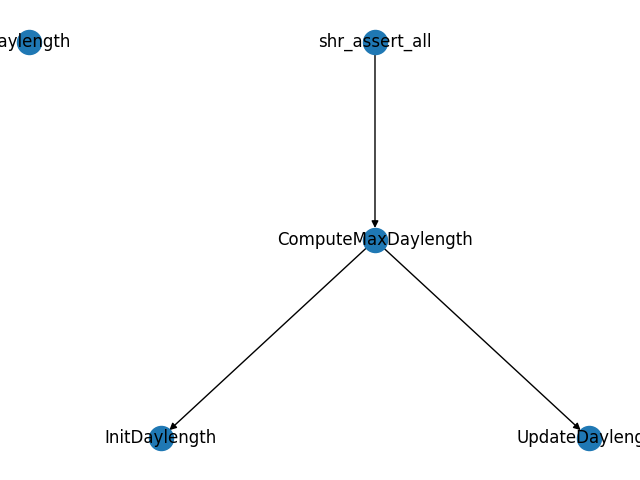
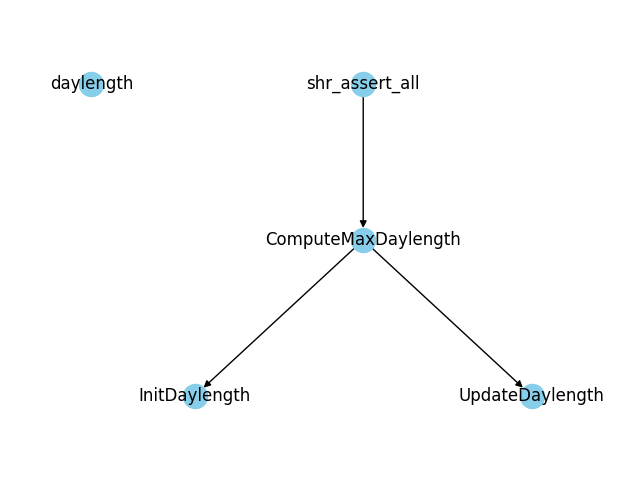
Add more padding to DAG pictures

diff --git a/examples/daylength_2/fortran/main.py b/examples/daylength_2/fortran/main.py
@@ -74,7 +74,8 @@ def topological_sort(dependencies):
 
 def draw_dag_and_save(dag, filename):
     pos = nx.drawing.nx_agraph.graphviz_layout(dag, prog='dot')
-    nx.draw(dag, pos, with_labels=True, arrows=True)
+    nx.draw(dag, pos, with_labels=True, arrows=True, node_color="skyblue")
+    plt.margins(0.20)
     plt.savefig(filename)
 
 
